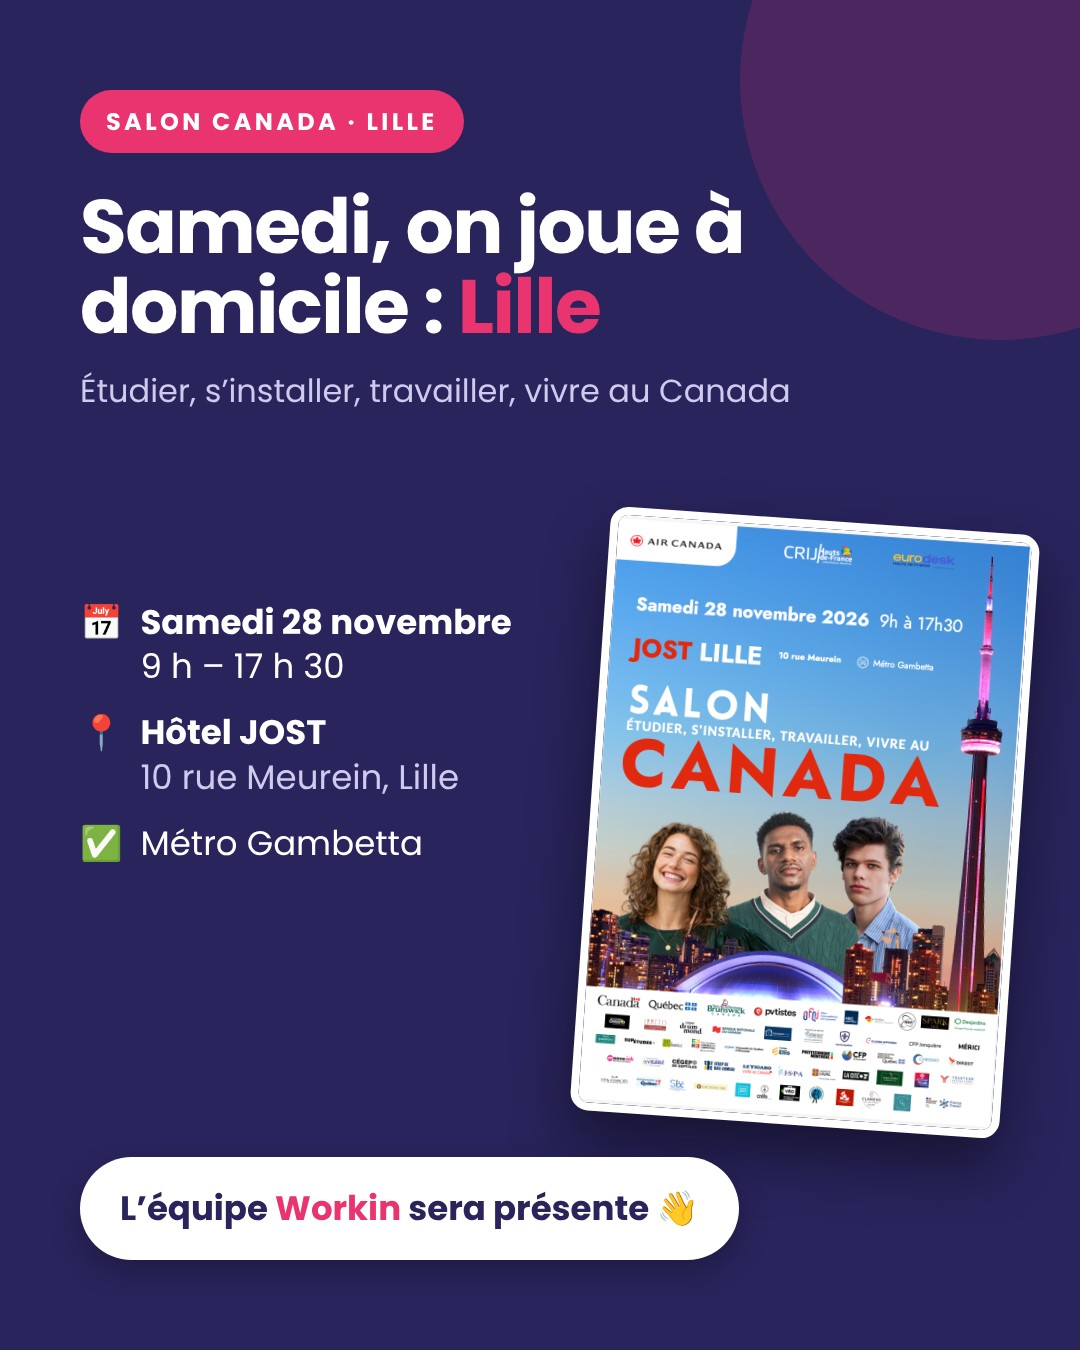
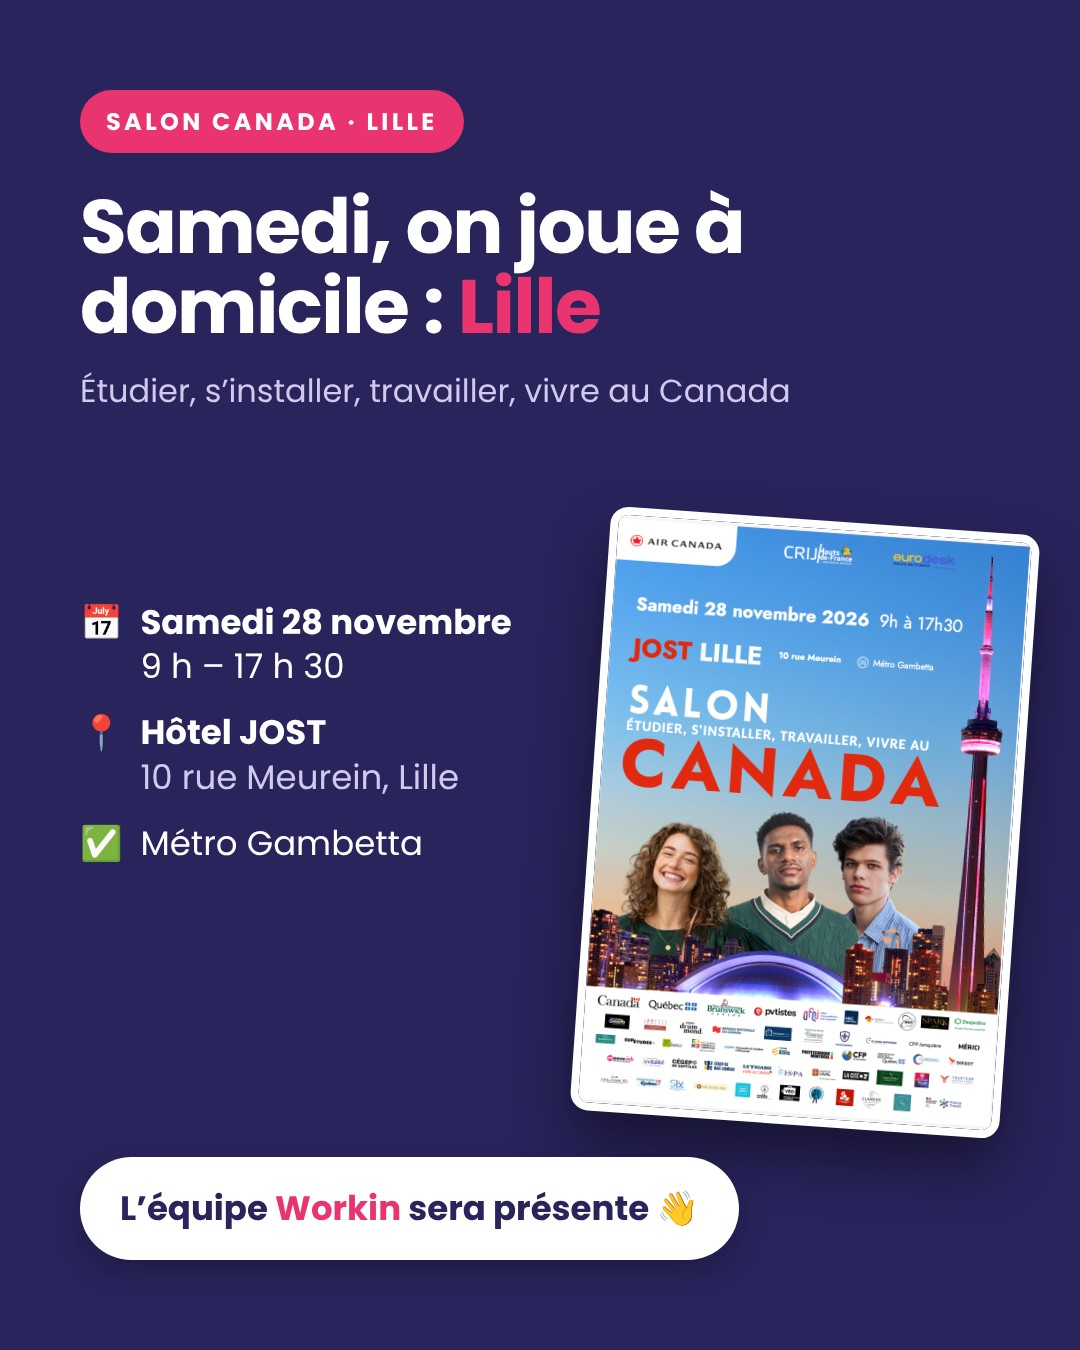
Salons Canada : visuels sans le rond rose
Claude-Session: https://claude.ai/code/session_01D5ZaFaeFbjyTGMF2oXbt7n

Changed region(s): [[0.6722, 0.0, 1.0, 0.2489]]

diff --git a/tools/visuels/salons/post-tournee.html b/tools/visuels/salons/post-tournee.html
@@ -11,8 +11,7 @@ h1{font-weight:700;line-height:1.05;letter-spacing:-.02em}.r{color:#ea346f}
 .city{background:rgba(255,255,255,.08);border-radius:26px;padding:26px 30px}
 .city b{display:block;font-size:40px}.city span{display:block;font-size:27px;color:#cfcbef;line-height:1.35;margin-top:4px}
 .city em{font-style:normal;display:inline-block;background:#ea346f;color:#fff;border-radius:999px;padding:4px 18px;font-size:24px;font-weight:700;margin-top:10px}
-</style></head><body><div class=s style='width:1080px;height:1350px'><div class=blob style='width:520px;height:520px;right:-180px;top:-180px;opacity:.18'></div>
-<div style='position:absolute;left:80px;right:80px;top:80px'><span class=tag style='font-size:24px;padding:14px 26px'>Salons Canada · Air Canada</span>
+</style></head><body><div class=s style='width:1080px;height:1350px'><div style='position:absolute;left:80px;right:80px;top:80px'><span class=tag style='font-size:24px;padding:14px 26px'>Salons Canada · Air Canada</span>
 <h1 style='font-size:72px;margin-top:30px'>4 salons, 4 villes :<br>l’équipe <span class=r>Workin</span> y sera</h1>
 <div style='display:grid;grid-template-columns:1fr 1fr;gap:28px;margin-top:50px'><div class=city style="padding:34px 34px"><b style="font-size:50px">Toulouse</b><span style="font-size:29px">Mercredi 18 novembre · 9&nbsp;h&nbsp;–&nbsp;18&nbsp;h<br>Palais consulaire</span></div><div class=city style="padding:34px 34px"><b style="font-size:50px">Lyon</b><span style="font-size:29px">Mercredi 25 novembre · 9&nbsp;h&nbsp;–&nbsp;18&nbsp;h<br>Ninkasi Cordeliers</span></div><div class=city style="padding:34px 34px"><b style="font-size:50px">Lille</b><span style="font-size:29px">Samedi 28 novembre · 9&nbsp;h&nbsp;–&nbsp;17&nbsp;h&nbsp;30<br>Hôtel JOST</span></div><div class=city style="padding:34px 34px"><b style="font-size:50px">Paris</b><span style="font-size:29px">Mercredi 2 décembre · 9&nbsp;h&nbsp;–&nbsp;18&nbsp;h<br>Maison des associations de solidarité</span></div></div>
 <p style='font-size:30px;margin-top:40px;color:#cfcbef;line-height:1.4'>Étudier, s’installer, travailler, vivre au Canada.<br>Venez nous poser vos questions sur le travail au Québec 👋</p></div>

diff --git a/tools/visuels/salons/story-tournee.html b/tools/visuels/salons/story-tournee.html
@@ -11,7 +11,6 @@ h1{font-weight:700;line-height:1.05;letter-spacing:-.02em}.r{color:#ea346f}
 .city{background:rgba(255,255,255,.08);border-radius:26px;padding:26px 30px}
 .city b{display:block;font-size:40px}.city span{display:block;font-size:27px;color:#cfcbef;line-height:1.35;margin-top:4px}
 .city em{font-style:normal;display:inline-block;background:#ea346f;color:#fff;border-radius:999px;padding:4px 18px;font-size:24px;font-weight:700;margin-top:10px}
-</style></head><body><div class=s style='width:1080px;height:1920px'><div class=blob style='width:700px;height:700px;right:-260px;top:-200px;opacity:.18'></div>
-<div style='position:absolute;left:90px;right:90px;top:270px'><span class=tag style='font-size:28px;padding:16px 30px'>On part en tournée</span>
+</style></head><body><div class=s style='width:1080px;height:1920px'><div style='position:absolute;left:90px;right:90px;top:270px'><span class=tag style='font-size:28px;padding:16px 30px'>On part en tournée</span>
 <h1 style='font-size:96px;margin-top:40px'>4 salons Canada,<br>l’équipe <span class=r>Workin</span> y sera</h1>
 <div style='display:flex;flex-direction:column;gap:26px;margin-top:56px'><div class=city style="padding:32px 40px"><b style="font-size:56px">Toulouse</b><span style="font-size:36px">Mercredi 18 novembre · 9&nbsp;h&nbsp;–&nbsp;18&nbsp;h<br>Palais consulaire</span></div><div class=city style="padding:32px 40px"><b style="font-size:56px">Lyon</b><span style="font-size:36px">Mercredi 25 novembre · 9&nbsp;h&nbsp;–&nbsp;18&nbsp;h<br>Ninkasi Cordeliers</span></div><div class=city style="padding:32px 40px"><b style="font-size:56px">Lille</b><span style="font-size:36px">Samedi 28 novembre · 9&nbsp;h&nbsp;–&nbsp;17&nbsp;h&nbsp;30<br>Hôtel JOST</span></div><div class=city style="padding:32px 40px"><b style="font-size:56px">Paris</b><span style="font-size:36px">Mercredi 2 décembre · 9&nbsp;h&nbsp;–&nbsp;18&nbsp;h<br>Maison des associations de solidarité</span></div></div></div></div></body></html>

diff --git a/tools/visuels/salons/post-toulouse.html b/tools/visuels/salons/post-toulouse.html
@@ -11,8 +11,7 @@ h1{font-weight:700;line-height:1.05;letter-spacing:-.02em}.r{color:#ea346f}
 .city{background:rgba(255,255,255,.08);border-radius:26px;padding:26px 30px}
 .city b{display:block;font-size:40px}.city span{display:block;font-size:27px;color:#cfcbef;line-height:1.35;margin-top:4px}
 .city em{font-style:normal;display:inline-block;background:#ea346f;color:#fff;border-radius:999px;padding:4px 18px;font-size:24px;font-weight:700;margin-top:10px}
-</style></head><body><div class=s style='width:1080px;height:1350px'><div class=blob style='width:520px;height:520px;right:-180px;top:-180px;opacity:.18'></div>
-<div style='position:absolute;left:80px;top:90px;right:80px'>
+</style></head><body><div class=s style='width:1080px;height:1350px'><div style='position:absolute;left:80px;top:90px;right:80px'>
 <span class=tag style='font-size:24px;padding:14px 26px'>Salon Canada · Toulouse</span>
 <h1 style='font-size:76px;margin-top:34px'>Demain, on vous attend à <span class=r>Toulouse</span></h1>
 <p style='font-size:32px;margin-top:22px;color:#cfcbef;line-height:1.35'>Étudier, s’installer, travailler, vivre au Canada</p></div>

diff --git a/tools/visuels/salons/post-lille.html b/tools/visuels/salons/post-lille.html
@@ -11,8 +11,7 @@ h1{font-weight:700;line-height:1.05;letter-spacing:-.02em}.r{color:#ea346f}
 .city{background:rgba(255,255,255,.08);border-radius:26px;padding:26px 30px}
 .city b{display:block;font-size:40px}.city span{display:block;font-size:27px;color:#cfcbef;line-height:1.35;margin-top:4px}
 .city em{font-style:normal;display:inline-block;background:#ea346f;color:#fff;border-radius:999px;padding:4px 18px;font-size:24px;font-weight:700;margin-top:10px}
-</style></head><body><div class=s style='width:1080px;height:1350px'><div class=blob style='width:520px;height:520px;right:-180px;top:-180px;opacity:.18'></div>
-<div style='position:absolute;left:80px;top:90px;right:80px'>
+</style></head><body><div class=s style='width:1080px;height:1350px'><div style='position:absolute;left:80px;top:90px;right:80px'>
 <span class=tag style='font-size:24px;padding:14px 26px'>Salon Canada · Lille</span>
 <h1 style='font-size:76px;margin-top:34px'>Samedi, on joue à domicile : <span class=r>Lille</span></h1>
 <p style='font-size:32px;margin-top:22px;color:#cfcbef;line-height:1.35'>Étudier, s’installer, travailler, vivre au Canada</p></div>

diff --git a/tools/visuels/salons/post-paris.html b/tools/visuels/salons/post-paris.html
@@ -11,8 +11,7 @@ h1{font-weight:700;line-height:1.05;letter-spacing:-.02em}.r{color:#ea346f}
 .city{background:rgba(255,255,255,.08);border-radius:26px;padding:26px 30px}
 .city b{display:block;font-size:40px}.city span{display:block;font-size:27px;color:#cfcbef;line-height:1.35;margin-top:4px}
 .city em{font-style:normal;display:inline-block;background:#ea346f;color:#fff;border-radius:999px;padding:4px 18px;font-size:24px;font-weight:700;margin-top:10px}
-</style></head><body><div class=s style='width:1080px;height:1350px'><div class=blob style='width:520px;height:520px;right:-180px;top:-180px;opacity:.18'></div>
-<div style='position:absolute;left:80px;top:90px;right:80px'>
+</style></head><body><div class=s style='width:1080px;height:1350px'><div style='position:absolute;left:80px;top:90px;right:80px'>
 <span class=tag style='font-size:24px;padding:14px 26px'>Salon Canada · Paris</span>
 <h1 style='font-size:76px;margin-top:34px'>Dernière date : <span class=r>Paris</span></h1>
 <p style='font-size:32px;margin-top:22px;color:#cfcbef;line-height:1.35'>Étudier, s’installer, travailler, vivre au Canada</p></div>

diff --git a/tools/visuels/salons/post-lyon.html b/tools/visuels/salons/post-lyon.html
@@ -11,8 +11,7 @@ h1{font-weight:700;line-height:1.05;letter-spacing:-.02em}.r{color:#ea346f}
 .city{background:rgba(255,255,255,.08);border-radius:26px;padding:26px 30px}
 .city b{display:block;font-size:40px}.city span{display:block;font-size:27px;color:#cfcbef;line-height:1.35;margin-top:4px}
 .city em{font-style:normal;display:inline-block;background:#ea346f;color:#fff;border-radius:999px;padding:4px 18px;font-size:24px;font-weight:700;margin-top:10px}
-</style></head><body><div class=s style='width:1080px;height:1350px'><div class=blob style='width:520px;height:520px;right:-180px;top:-180px;opacity:.18'></div>
-<div style='position:absolute;left:80px;top:90px;right:80px'>
+</style></head><body><div class=s style='width:1080px;height:1350px'><div style='position:absolute;left:80px;top:90px;right:80px'>
 <span class=tag style='font-size:24px;padding:14px 26px'>Salon Canada · Lyon</span>
 <h1 style='font-size:76px;margin-top:34px'>Mercredi, cap sur <span class=r>Lyon</span></h1>
 <p style='font-size:32px;margin-top:22px;color:#cfcbef;line-height:1.35'>Étudier, s’installer, travailler, vivre au Canada</p></div>

diff --git a/tools/visuels/salons/story-toulouse.html b/tools/visuels/salons/story-toulouse.html
@@ -11,8 +11,7 @@ h1{font-weight:700;line-height:1.05;letter-spacing:-.02em}.r{color:#ea346f}
 .city{background:rgba(255,255,255,.08);border-radius:26px;padding:26px 30px}
 .city b{display:block;font-size:40px}.city span{display:block;font-size:27px;color:#cfcbef;line-height:1.35;margin-top:4px}
 .city em{font-style:normal;display:inline-block;background:#ea346f;color:#fff;border-radius:999px;padding:4px 18px;font-size:24px;font-weight:700;margin-top:10px}
-</style></head><body><div class=s style='width:1080px;height:1920px'><div class=blob style='width:700px;height:700px;right:-260px;top:-200px;opacity:.18'></div>
-<div style='position:absolute;left:90px;right:90px;top:270px'>
+</style></head><body><div class=s style='width:1080px;height:1920px'><div style='position:absolute;left:90px;right:90px;top:270px'>
 <span class=tag style='font-size:28px;padding:16px 30px'>C’est aujourd’hui</span>
 <h1 style='font-size:128px;margin-top:44px'>Salon Canada<br><span class=r>Toulouse</span></h1>
 <div class=info style='font-size:46px;line-height:1.3;margin-top:50px;gap:26px'>

diff --git a/tools/visuels/salons/story-lille.html b/tools/visuels/salons/story-lille.html
@@ -11,8 +11,7 @@ h1{font-weight:700;line-height:1.05;letter-spacing:-.02em}.r{color:#ea346f}
 .city{background:rgba(255,255,255,.08);border-radius:26px;padding:26px 30px}
 .city b{display:block;font-size:40px}.city span{display:block;font-size:27px;color:#cfcbef;line-height:1.35;margin-top:4px}
 .city em{font-style:normal;display:inline-block;background:#ea346f;color:#fff;border-radius:999px;padding:4px 18px;font-size:24px;font-weight:700;margin-top:10px}
-</style></head><body><div class=s style='width:1080px;height:1920px'><div class=blob style='width:700px;height:700px;right:-260px;top:-200px;opacity:.18'></div>
-<div style='position:absolute;left:90px;right:90px;top:270px'>
+</style></head><body><div class=s style='width:1080px;height:1920px'><div style='position:absolute;left:90px;right:90px;top:270px'>
 <span class=tag style='font-size:28px;padding:16px 30px'>C’est aujourd’hui</span>
 <h1 style='font-size:128px;margin-top:44px'>Salon Canada<br><span class=r>Lille</span></h1>
 <div class=info style='font-size:46px;line-height:1.3;margin-top:50px;gap:26px'>

diff --git a/tools/visuels/salons/story-paris.html b/tools/visuels/salons/story-paris.html
@@ -11,8 +11,7 @@ h1{font-weight:700;line-height:1.05;letter-spacing:-.02em}.r{color:#ea346f}
 .city{background:rgba(255,255,255,.08);border-radius:26px;padding:26px 30px}
 .city b{display:block;font-size:40px}.city span{display:block;font-size:27px;color:#cfcbef;line-height:1.35;margin-top:4px}
 .city em{font-style:normal;display:inline-block;background:#ea346f;color:#fff;border-radius:999px;padding:4px 18px;font-size:24px;font-weight:700;margin-top:10px}
-</style></head><body><div class=s style='width:1080px;height:1920px'><div class=blob style='width:700px;height:700px;right:-260px;top:-200px;opacity:.18'></div>
-<div style='position:absolute;left:90px;right:90px;top:270px'>
+</style></head><body><div class=s style='width:1080px;height:1920px'><div style='position:absolute;left:90px;right:90px;top:270px'>
 <span class=tag style='font-size:28px;padding:16px 30px'>C’est aujourd’hui</span>
 <h1 style='font-size:128px;margin-top:44px'>Salon Canada<br><span class=r>Paris</span></h1>
 <div class=info style='font-size:46px;line-height:1.3;margin-top:50px;gap:26px'>

diff --git a/tools/visuels/salons/story-lyon.html b/tools/visuels/salons/story-lyon.html
@@ -11,8 +11,7 @@ h1{font-weight:700;line-height:1.05;letter-spacing:-.02em}.r{color:#ea346f}
 .city{background:rgba(255,255,255,.08);border-radius:26px;padding:26px 30px}
 .city b{display:block;font-size:40px}.city span{display:block;font-size:27px;color:#cfcbef;line-height:1.35;margin-top:4px}
 .city em{font-style:normal;display:inline-block;background:#ea346f;color:#fff;border-radius:999px;padding:4px 18px;font-size:24px;font-weight:700;margin-top:10px}
-</style></head><body><div class=s style='width:1080px;height:1920px'><div class=blob style='width:700px;height:700px;right:-260px;top:-200px;opacity:.18'></div>
-<div style='position:absolute;left:90px;right:90px;top:270px'>
+</style></head><body><div class=s style='width:1080px;height:1920px'><div style='position:absolute;left:90px;right:90px;top:270px'>
 <span class=tag style='font-size:28px;padding:16px 30px'>C’est aujourd’hui</span>
 <h1 style='font-size:128px;margin-top:44px'>Salon Canada<br><span class=r>Lyon</span></h1>
 <div class=info style='font-size:46px;line-height:1.3;margin-top:50px;gap:26px'>

diff --git a/tools/visuels/salons/gen.py b/tools/visuels/salons/gen.py
@@ -25,8 +25,7 @@ TITLES={'toulouse':'Demain, on vous attend à <span class=r>Toulouse</span>','ly
 out={}
 # Posts ville 1080x1350
 for k,c in C.items():
-    body=f"""<div class=blob style='width:520px;height:520px;right:-180px;top:-180px;opacity:.18'></div>
-<div style='position:absolute;left:80px;top:90px;right:80px'>
+    body=f"""<div style='position:absolute;left:80px;top:90px;right:80px'>
 <span class=tag style='font-size:24px;padding:14px 26px'>Salon Canada · {c['ville']}</span>
 <h1 style='font-size:76px;margin-top:34px'>{TITLES[k]}</h1>
 <p style='font-size:32px;margin-top:22px;color:#cfcbef;line-height:1.35'>Étudier, s’installer, travailler, vivre au Canada</p></div>
@@ -39,8 +38,7 @@ for k,c in C.items():
     out[f'post-{k}']=(1080,1350,body)
 # Stories jour J 1080x1920
 for k,c in C.items():
-    body=f"""<div class=blob style='width:700px;height:700px;right:-260px;top:-200px;opacity:.18'></div>
-<div style='position:absolute;left:90px;right:90px;top:270px'>
+    body=f"""<div style='position:absolute;left:90px;right:90px;top:270px'>
 <span class=tag style='font-size:28px;padding:16px 30px'>C’est aujourd’hui</span>
 <h1 style='font-size:128px;margin-top:44px'>Salon Canada<br><span class=r>{c['ville']}</span></h1>
 <div class=info style='font-size:46px;line-height:1.3;margin-top:50px;gap:26px'>
@@ -51,14 +49,12 @@ for k,c in C.items():
     out[f'story-{k}']=(1080,1920,body)
 # Tournée post + story
 cities=''.join(f"<div class=city><b>{c['ville']}</b><span>{c['d']} · {c['h']}<br>{c['lieu']}</span></div>" for c in C.values())
-out['post-tournee']=(1080,1350,f"""<div class=blob style='width:520px;height:520px;right:-180px;top:-180px;opacity:.18'></div>
-<div style='position:absolute;left:80px;right:80px;top:80px'><span class=tag style='font-size:24px;padding:14px 26px'>Salons Canada · Air Canada</span>
+out['post-tournee']=(1080,1350,f"""<div style='position:absolute;left:80px;right:80px;top:80px'><span class=tag style='font-size:24px;padding:14px 26px'>Salons Canada · Air Canada</span>
 <h1 style='font-size:72px;margin-top:30px'>4 salons, 4 villes :<br>l’équipe <span class=r>Workin</span> y sera</h1>
 <div style='display:grid;grid-template-columns:1fr 1fr;gap:28px;margin-top:50px'>{cities.replace('<div class=city>','<div class=city style="padding:34px 34px">').replace('<b>','<b style="font-size:50px">').replace('<span>','<span style="font-size:29px">')}</div>
 <p style='font-size:30px;margin-top:40px;color:#cfcbef;line-height:1.4'>Étudier, s’installer, travailler, vivre au Canada.<br>Venez nous poser vos questions sur le travail au Québec 👋</p></div>
 <div class=team style='left:80px;bottom:80px;font-size:34px;padding:26px 40px'>L’équipe <b>Workin</b> sera présente 👋</div>""")
-out['story-tournee']=(1080,1920,f"""<div class=blob style='width:700px;height:700px;right:-260px;top:-200px;opacity:.18'></div>
-<div style='position:absolute;left:90px;right:90px;top:270px'><span class=tag style='font-size:28px;padding:16px 30px'>On part en tournée</span>
+out['story-tournee']=(1080,1920,f"""<div style='position:absolute;left:90px;right:90px;top:270px'><span class=tag style='font-size:28px;padding:16px 30px'>On part en tournée</span>
 <h1 style='font-size:96px;margin-top:40px'>4 salons Canada,<br>l’équipe <span class=r>Workin</span> y sera</h1>
 <div style='display:flex;flex-direction:column;gap:26px;margin-top:56px'>{cities.replace('<div class=city>','<div class=city style="padding:32px 40px">').replace('<b>','<b style="font-size:56px">').replace('<span>','<span style="font-size:36px">')}</div></div>""")
 for n,(w,h,b) in out.items(): open(n+'.html','w').write(page(w,h,b))
